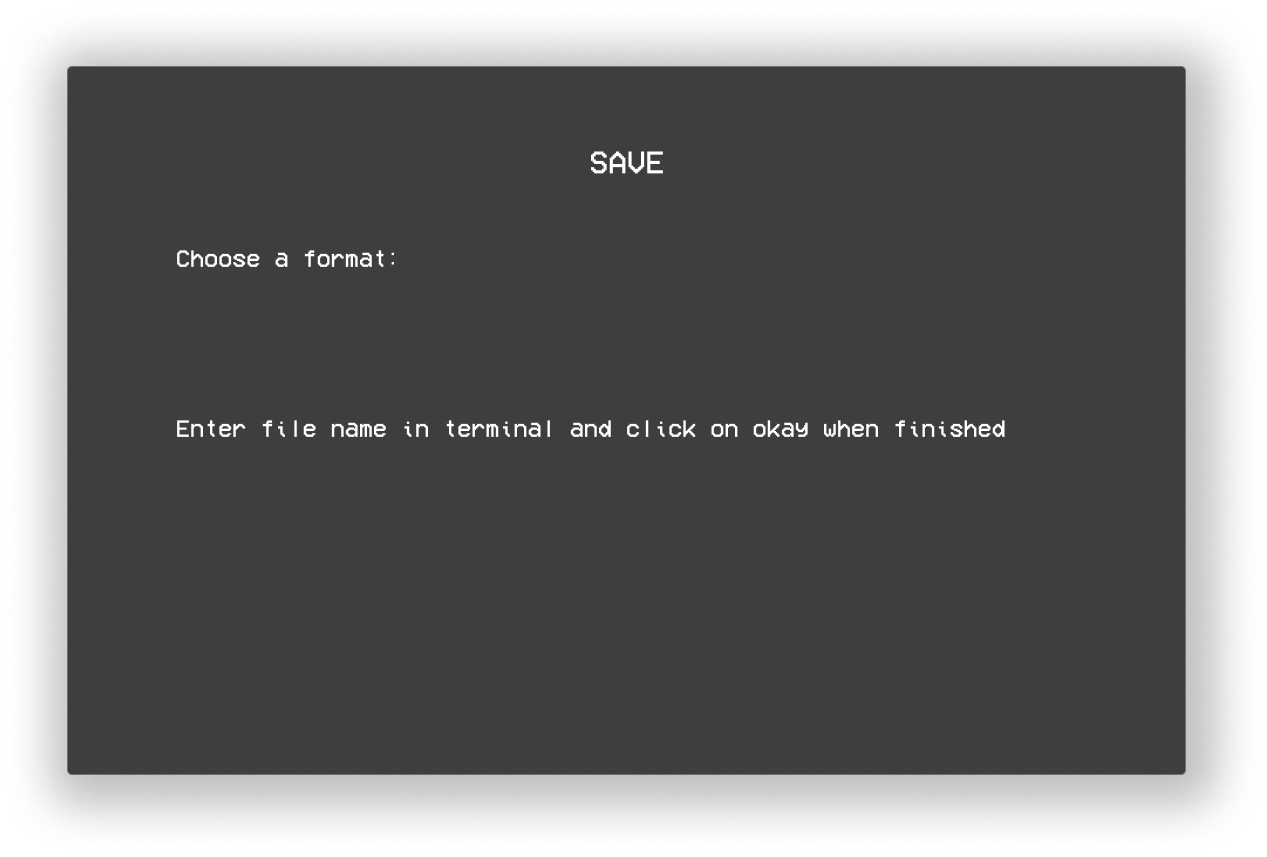
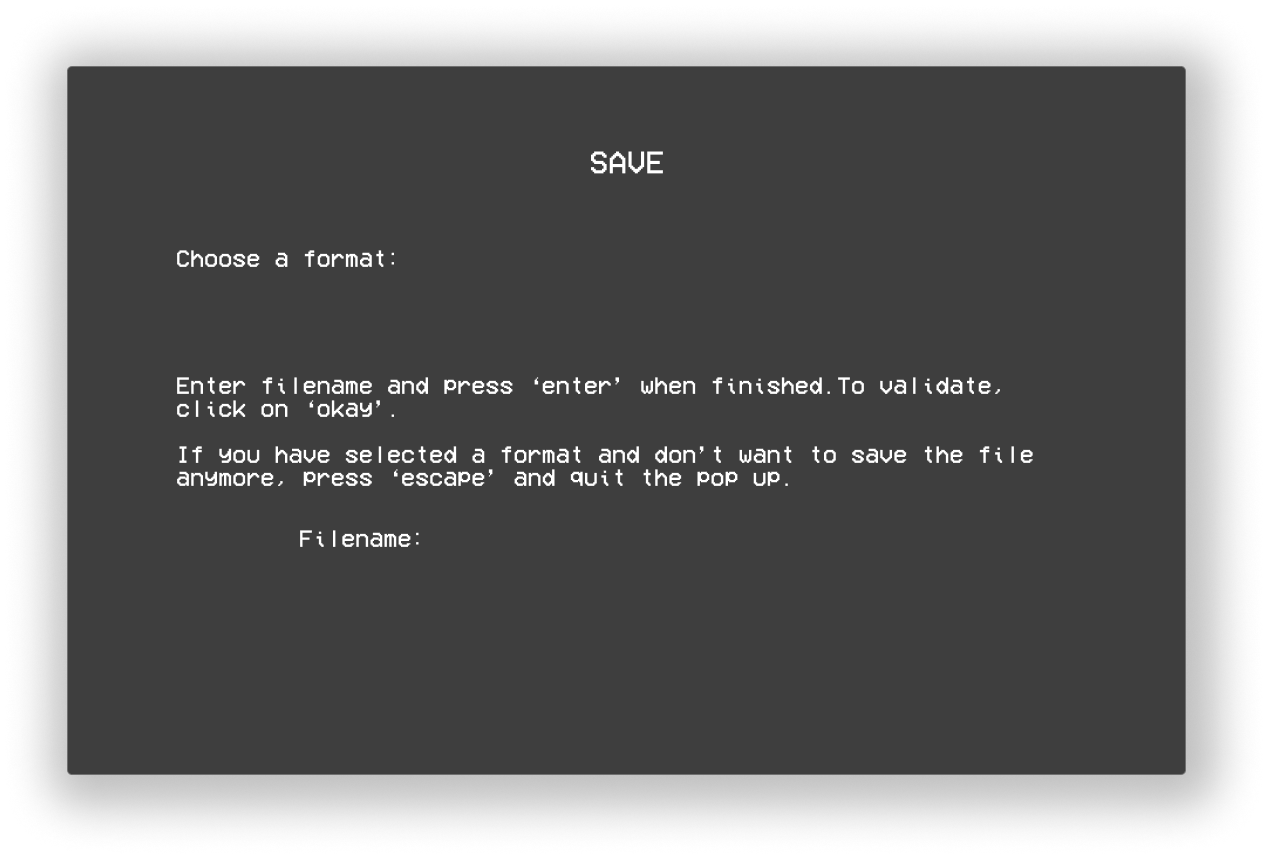
FIX: chat box position changed and pop up save updated for it

Changed region(s): [[0.1231, 0.4247, 0.8311, 0.5764], [0.4309, 0.4247, 0.7695, 0.4551], [0.2463, 0.6068, 0.3386, 0.6371]]

diff --git a/include/window.h b/include/window.h
@@ -14,10 +14,10 @@
     #include <time.h>
     #include <math.h>
     #define POS_CHAT_BOX (sfVector2f){\
-    1075, 600\
+    1000, 620\
     }
     #define SIZE_CHAT_BOX (sfVector2f){\
-    200, 35\
+    400, 35\
     }
 typedef struct sprites_store {
     int id;
